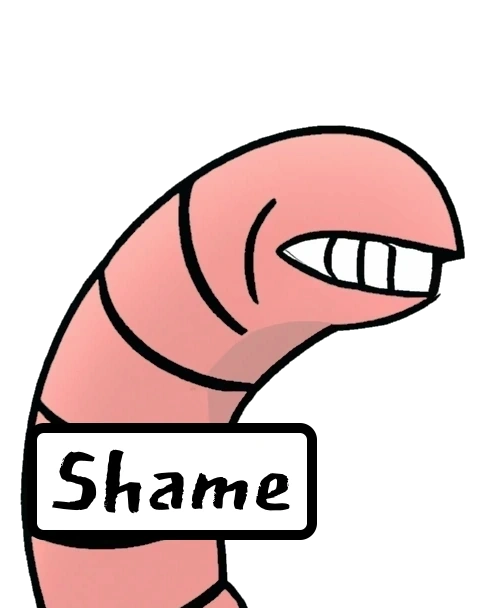
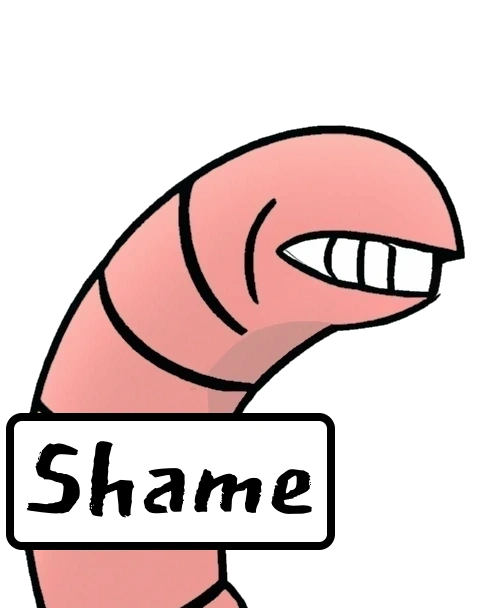
Make text on worms bigger and rename worms

Changed region(s): [[0.0, 0.6562, 0.7173, 0.9062]]

diff --git a/assets/css/style.css b/assets/css/style.css
@@ -13,7 +13,7 @@ p {
 }
 
 #leaderboard-overlay-text p {
-	font-size: 5vmin;
+	font-size: 4vmin;
 }
 
 #overlay-play-button {
@@ -152,8 +152,8 @@ button:hover {
   gap: 0px 0px; 
   grid-template-areas: 
     ". fear ."
-    "shame . shyness"
-    ". embarrassment ."
+    "shame . greed"
+    ". anger ."
     "anxiety . dread"; 
   grid-area: worm-box; 
   cursor: pointer;
@@ -179,18 +179,18 @@ button:hover {
 	background-position-y: 81px;
 }
 
-.shyness { 
-	grid-area: shyness;
-	background-image: url("../images/shy-worm.webp");
+.greed { 
+	grid-area: greed;
+	background-image: url("../images/greedy-worm.webp");
 	background-repeat: no-repeat;
 	background-size: contain;
 	background-position: center;
 	background-position-y: 81px;
 }
 
-.embarrassment { 
-	grid-area: embarrassment;
-	background-image: url("../images/embarrassed-worm.webp");
+.anger { 
+	grid-area: anger;
+	background-image: url("../images/angry-worm.webp");
 	background-repeat: no-repeat;
 	background-size: contain;
 	background-position: center;
@@ -427,8 +427,8 @@ button:hover {
 		grid-auto-flow: row;
 		grid-template-areas:
 		  ". fear ."
-		  "shame . shyness"
-		  ". embarrassment ."
+		  "shame . greed"
+		  ". anger ."
 		  "anxiety . dread";
 		grid-area: worm-box;
 	}
@@ -437,9 +437,9 @@ button:hover {
 	  
 	  .shame { grid-area: shame; }
 	  
-	  .shyness { grid-area: shyness; }
+	  .greed { grid-area: greed; }
 	  
-	  .embarrassment { grid-area: embarrassment; }
+	  .anger { grid-area: anger; }
 	  
 	  .anxiety { grid-area: anxiety; }
 	  

diff --git a/index.html b/index.html
@@ -102,8 +102,8 @@
 					<div id="pow"></div> 
 					<div class="fear worm"></div>
 					<div class="shame worm"></div>
-					<div class="shyness worm"></div>
-					<div class="embarrassment worm"></div>
+					<div class="greed worm"></div>
+					<div class="anger worm"></div>
 					<div class="anxiety worm"></div>
 					<div class="dread worm"></div>
 			</div>

diff --git a/script.js b/script.js
@@ -136,7 +136,7 @@ function generateRandomNum (min, max) {
 }
 
 var animateWormsInterval;
-const wormArr = ["empty", "fear", "shame", "shyness", "embarrassment", "anxiety", "dread"];
+const wormArr = ["empty", "fear", "shame", "greed", "anger", "anxiety", "dread"];
 let htmlCounter = "00:00";
 let lastWorm = 0;
 let intervalNum = 1000;
